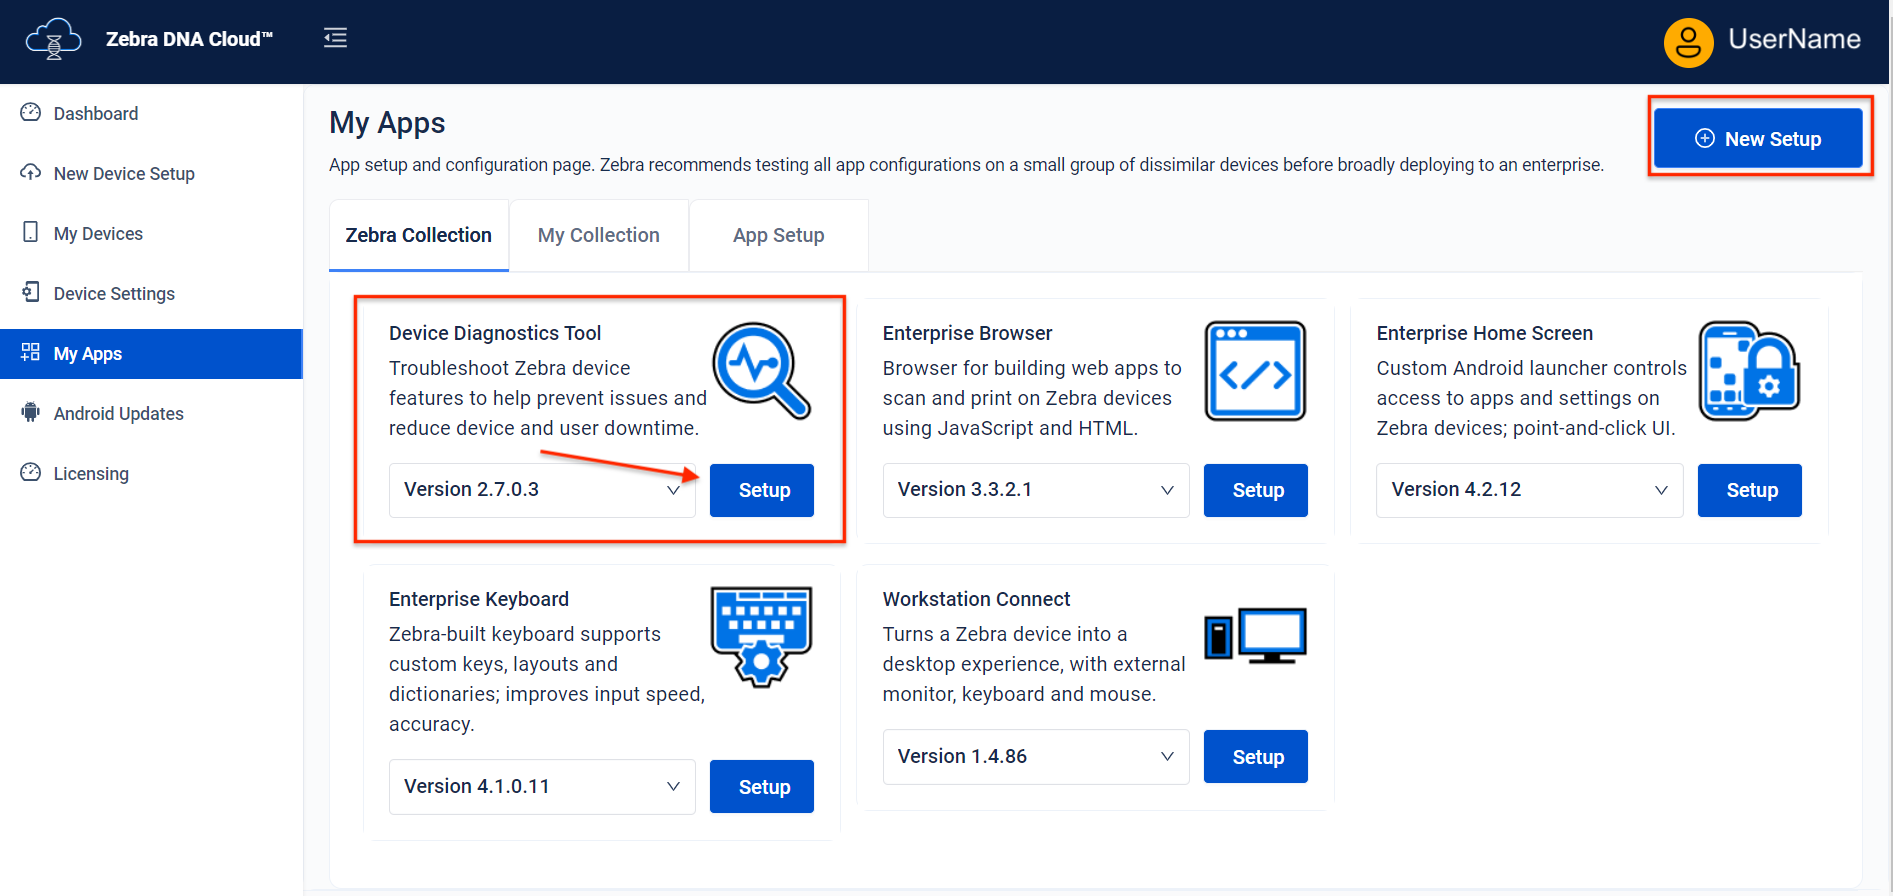
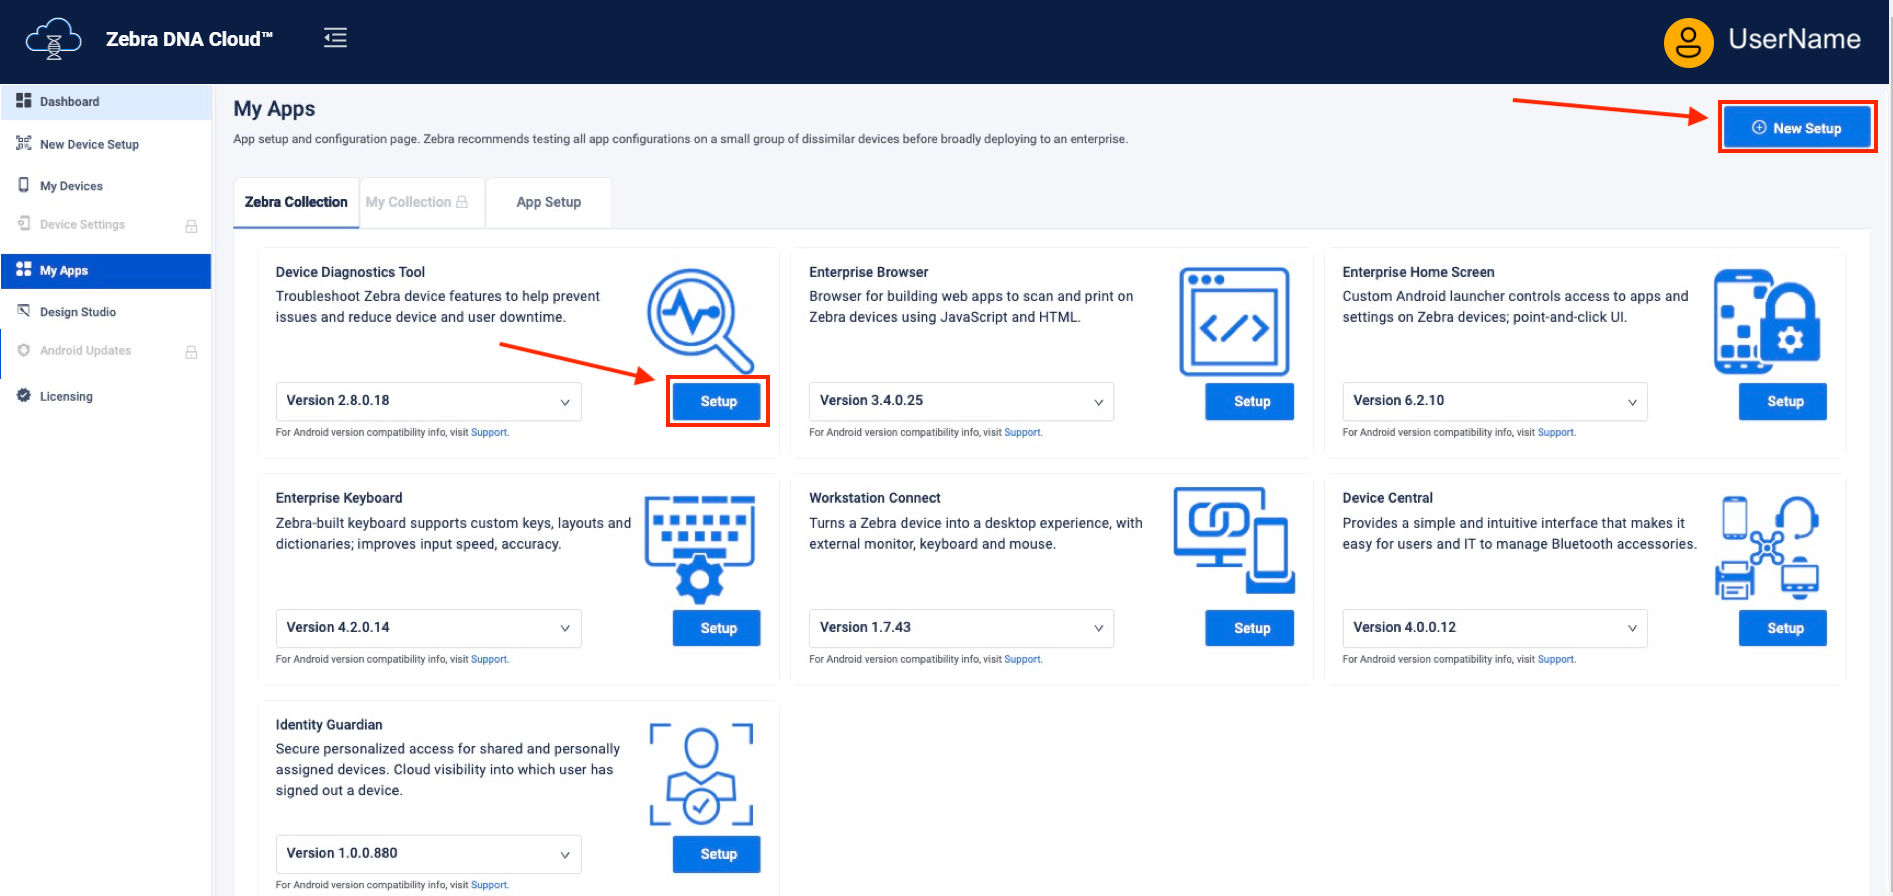
[TUT-94443] ZDNA 3.10 Zebra Collection usage updates, per PO, eng

diff --git a/zebradna/3-10/usage/index.html b/zebradna/3-10/usage/index.html
@@ -1029,21 +1029,43 @@ https://jira.zebra.com/browse/DLM-8112
 </ul>
 
 <blockquote>
-  <p><i class="fa fa-exclamation-circle" style="color:#FF0000;"></i> <u>ZDNA <strong>DOES NOT</strong> host apps nor perform app-hosting services</u> and currently <strong>can store only ONE version of any package</strong>. Support for multiple versions is currently under development. </p>
+  <p><i class="fa fa-exclamation-circle" style="color:#FF0000;"></i> <u>ZDNA <strong>DOES NOT</strong> host apps nor perform app-hosting services</u>.</p>
 </blockquote>
+
+ <!-- 2/27/24- removed, per notice
+  and currently **can store only ONE version of any package**. Support for multiple versions is currently under development.  -->
 
 <hr>
 
 <h3 id="zebracollection" class="anchor"><a class="heading-anchor" href="#zebracollection"><span></span></a>Zebra Collection</h3>
 
-<blockquote>
-  <p><i class="fa fa-exclamation-triangle" style="color:#FFA500;"></i> <strong>NOTE: Enrollment in a third-party EMM <u>blocks app installation from unknown sources, including Zebra apps</u></strong> unless unblocked by the EMM.<br></p>
-</blockquote>
+<p><i class="fa fa-exclamation-triangle" style="color:#FFA500;"></i> <strong>Enrollment in a third-party EMM <u>blocks app installation (including Zebra apps) from unknown sources</u></strong> unless unblocked by the EMM.<br></p>
+
+<h4 id="zebracollectiontechdocs" class="anchor"><a class="heading-anchor" href="#zebracollectiontechdocs"><span></span></a>Zebra Collection TechDocs:</h4>
+
+<ul>
+<li><strong><a href="/devicecentral">Device Central</a></strong></li>
+
+<li><strong><a href="/ddt">Device Diagnostic Tool</a></strong></li>
+
+<li><strong><a href="/enterprise-browser">Enterprise Browser</a></strong></li>
+
+<li><strong><a href="/ehs">Enterprise Home Screen</a></strong></li>
+
+<li><strong><a href="/ekb">Enterprise Keyboard</a></strong></li>
+
+<li><strong><a href="/identityguardian">Identity Guardian</a></strong></li>
+
+<li><strong><a href="/zwc">Workstation Connect</a></strong></li>
+</ul>
+
+<hr>
 
 <h4 id="tosetupazebraapp" class="anchor"><a class="heading-anchor" href="#tosetupazebraapp"><span></span></a>To Set up a Zebra App:</h4>
 
 <ol>
-<li><p>On the Zebra Collection tab, <strong>click on the app to be set up</strong>: 
+<li><p>On the Zebra Collection tab, <strong>click the "Setup" button on the app to be installed</strong>:<br>
+Alternatively, click "New Setup" to choose from a list of Zebra apps. 
 <img alt="image" style="height:350px" src="zva_01.png">
 <em>Click image to enlarge; ESC to exit.</em>
 <br></p></li>
